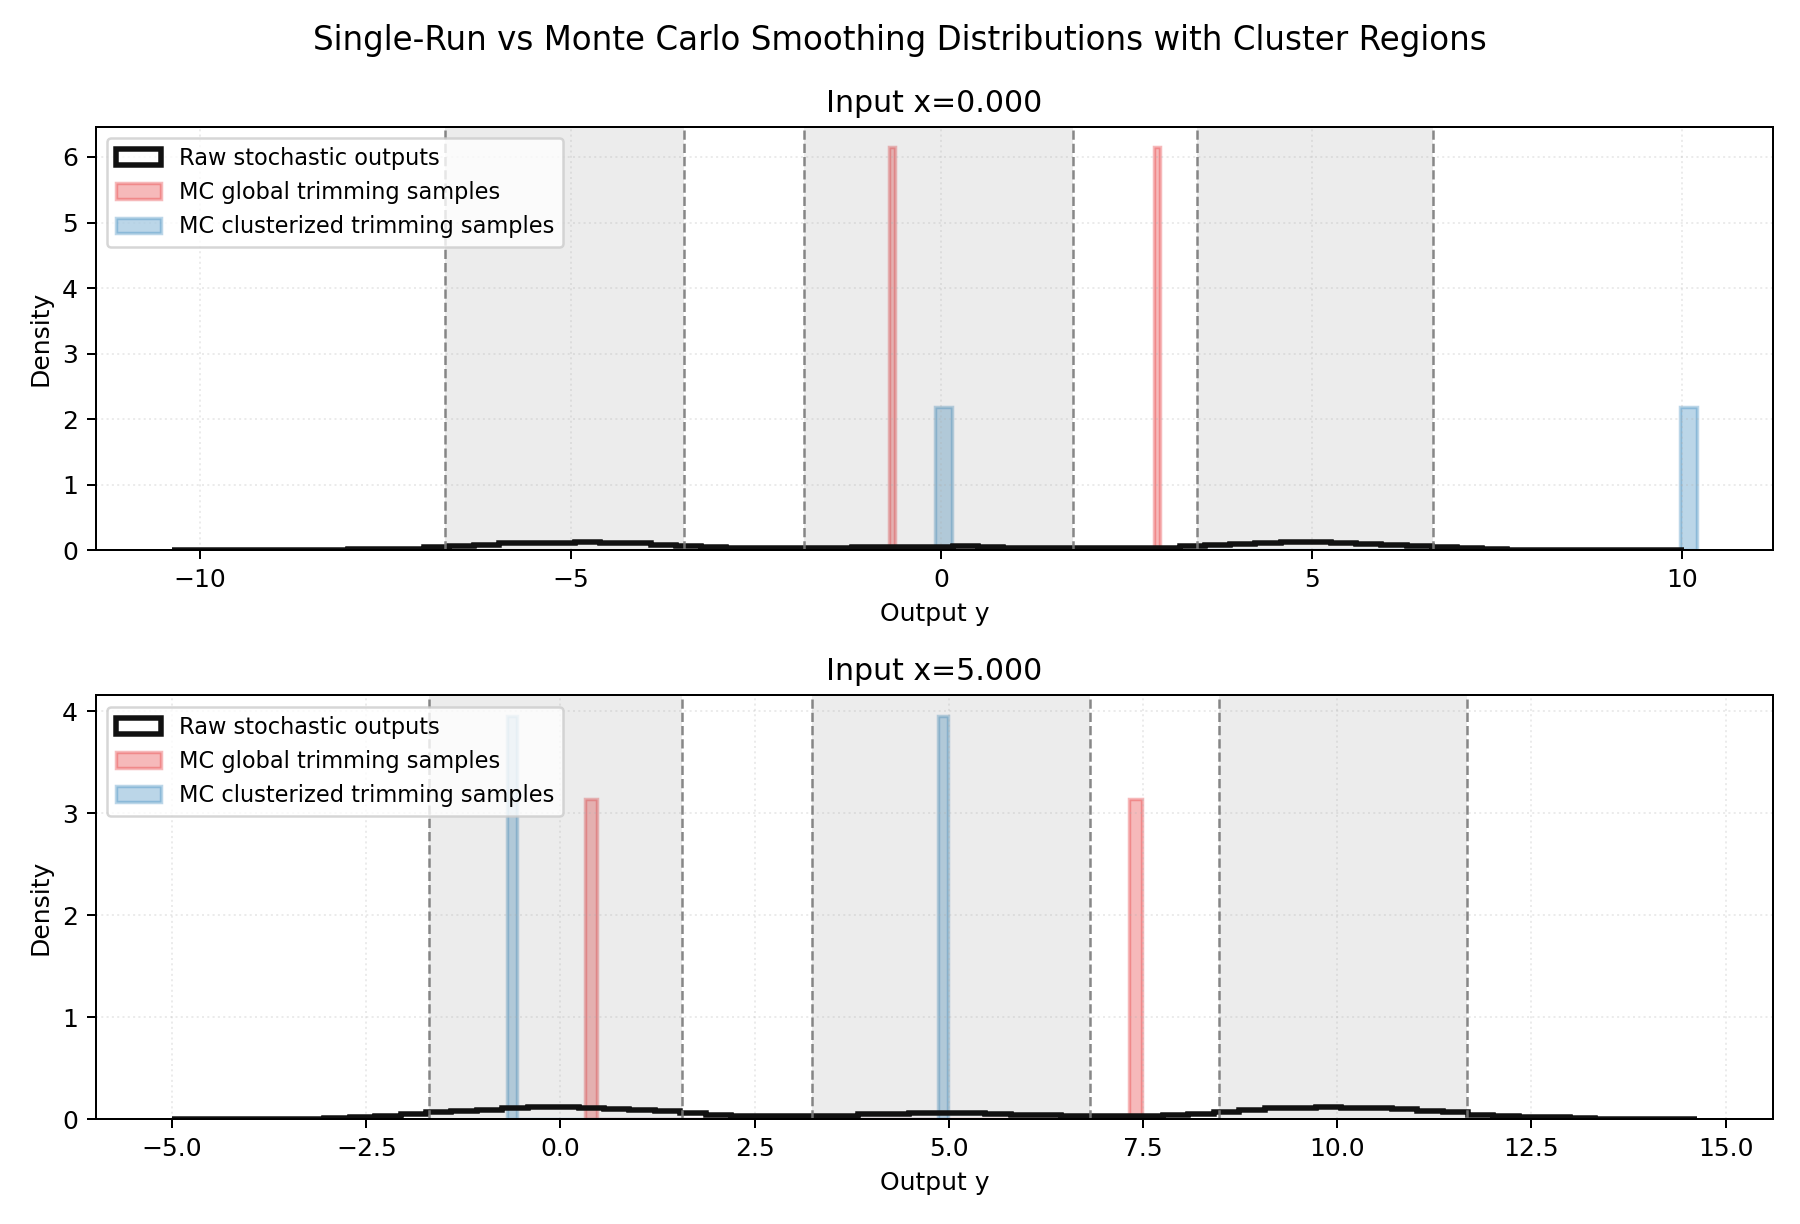
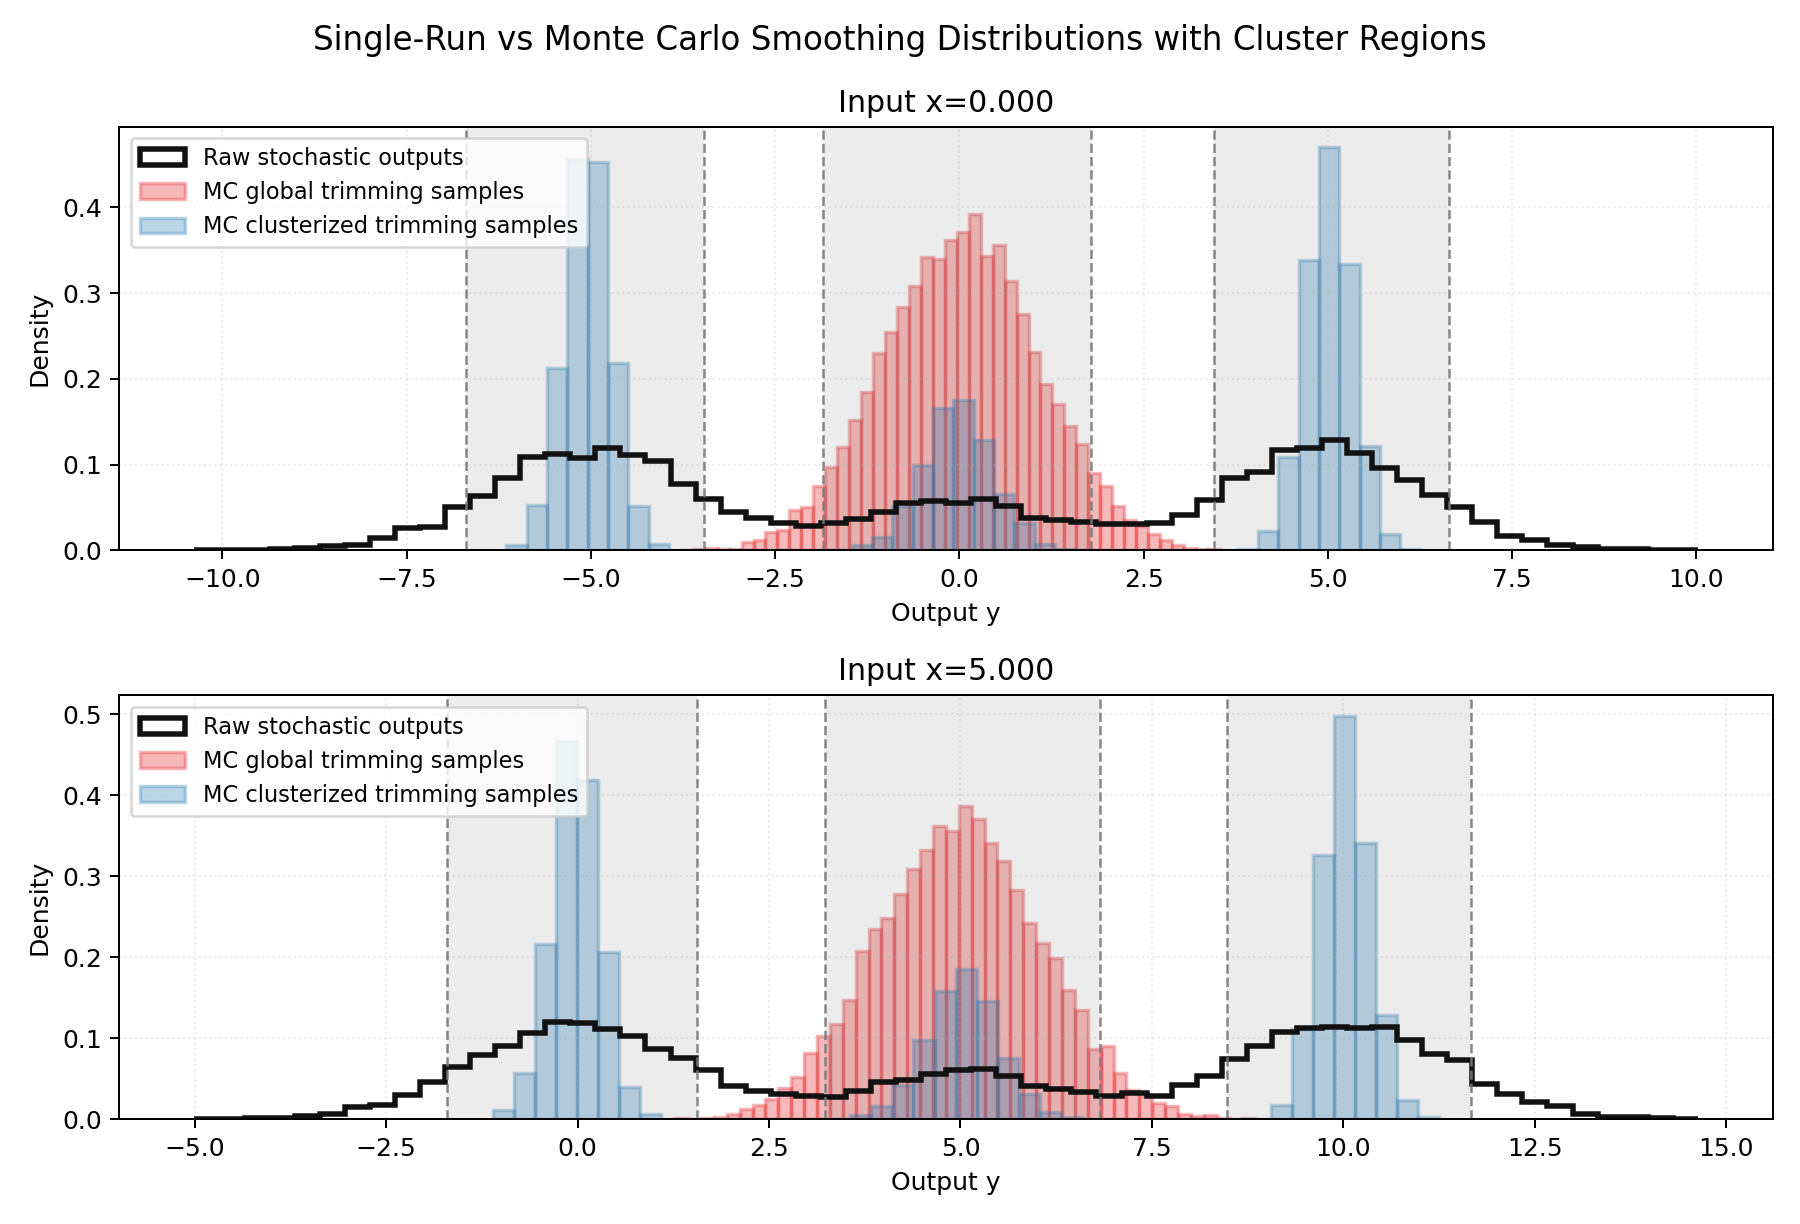
fix bug

diff --git a/src/randomized_smoothing/smoothing.py b/src/randomized_smoothing/smoothing.py
@@ -22,11 +22,8 @@ class Smoothing(ABC):
         raise NotImplementedError
 
     def monte_carlo(self, num_simulations: int) -> torch.Tensor:
-        outputs = list()
-        for _ in range(num_simulations):
-            distribution = self.smooth()
-            outputs.append(distribution.sample())
-        return torch.stack(outputs)
+        draws = [self.smooth().sample() for _ in range(num_simulations)]
+        return torch.stack(draws, dim=1)
 
 
 class AlphaTrimmingSmoothing(Smoothing):
